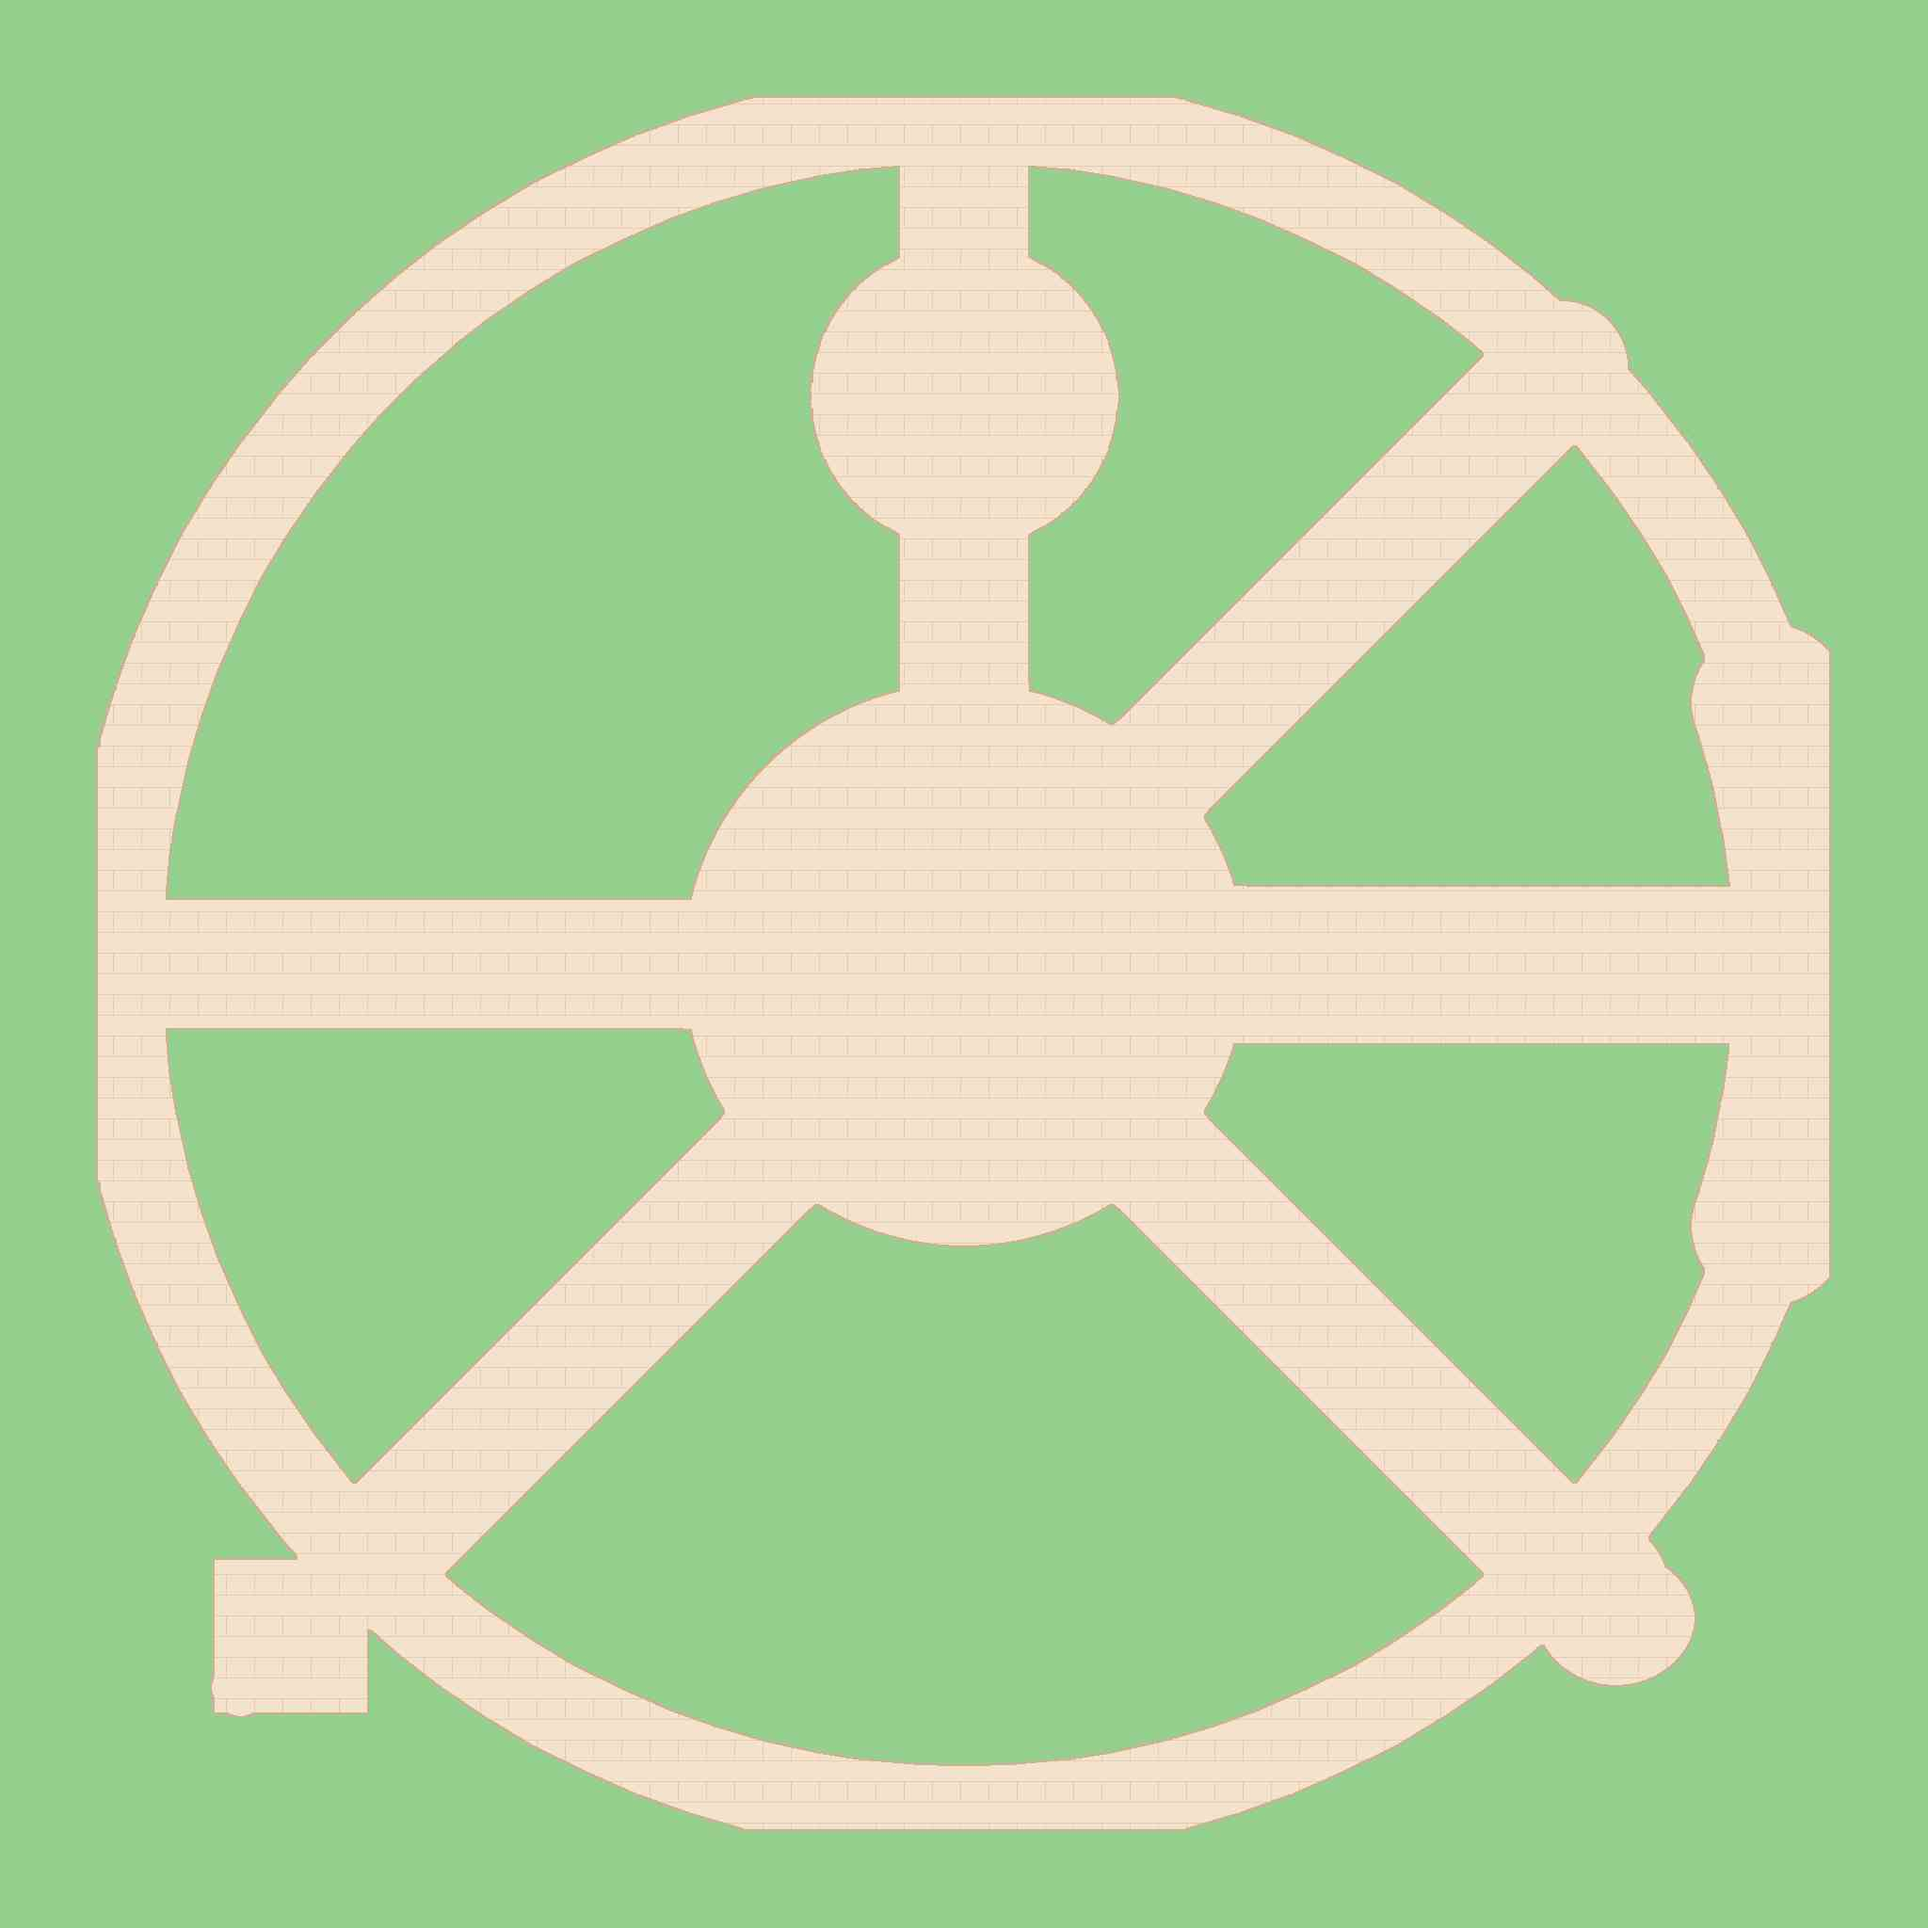
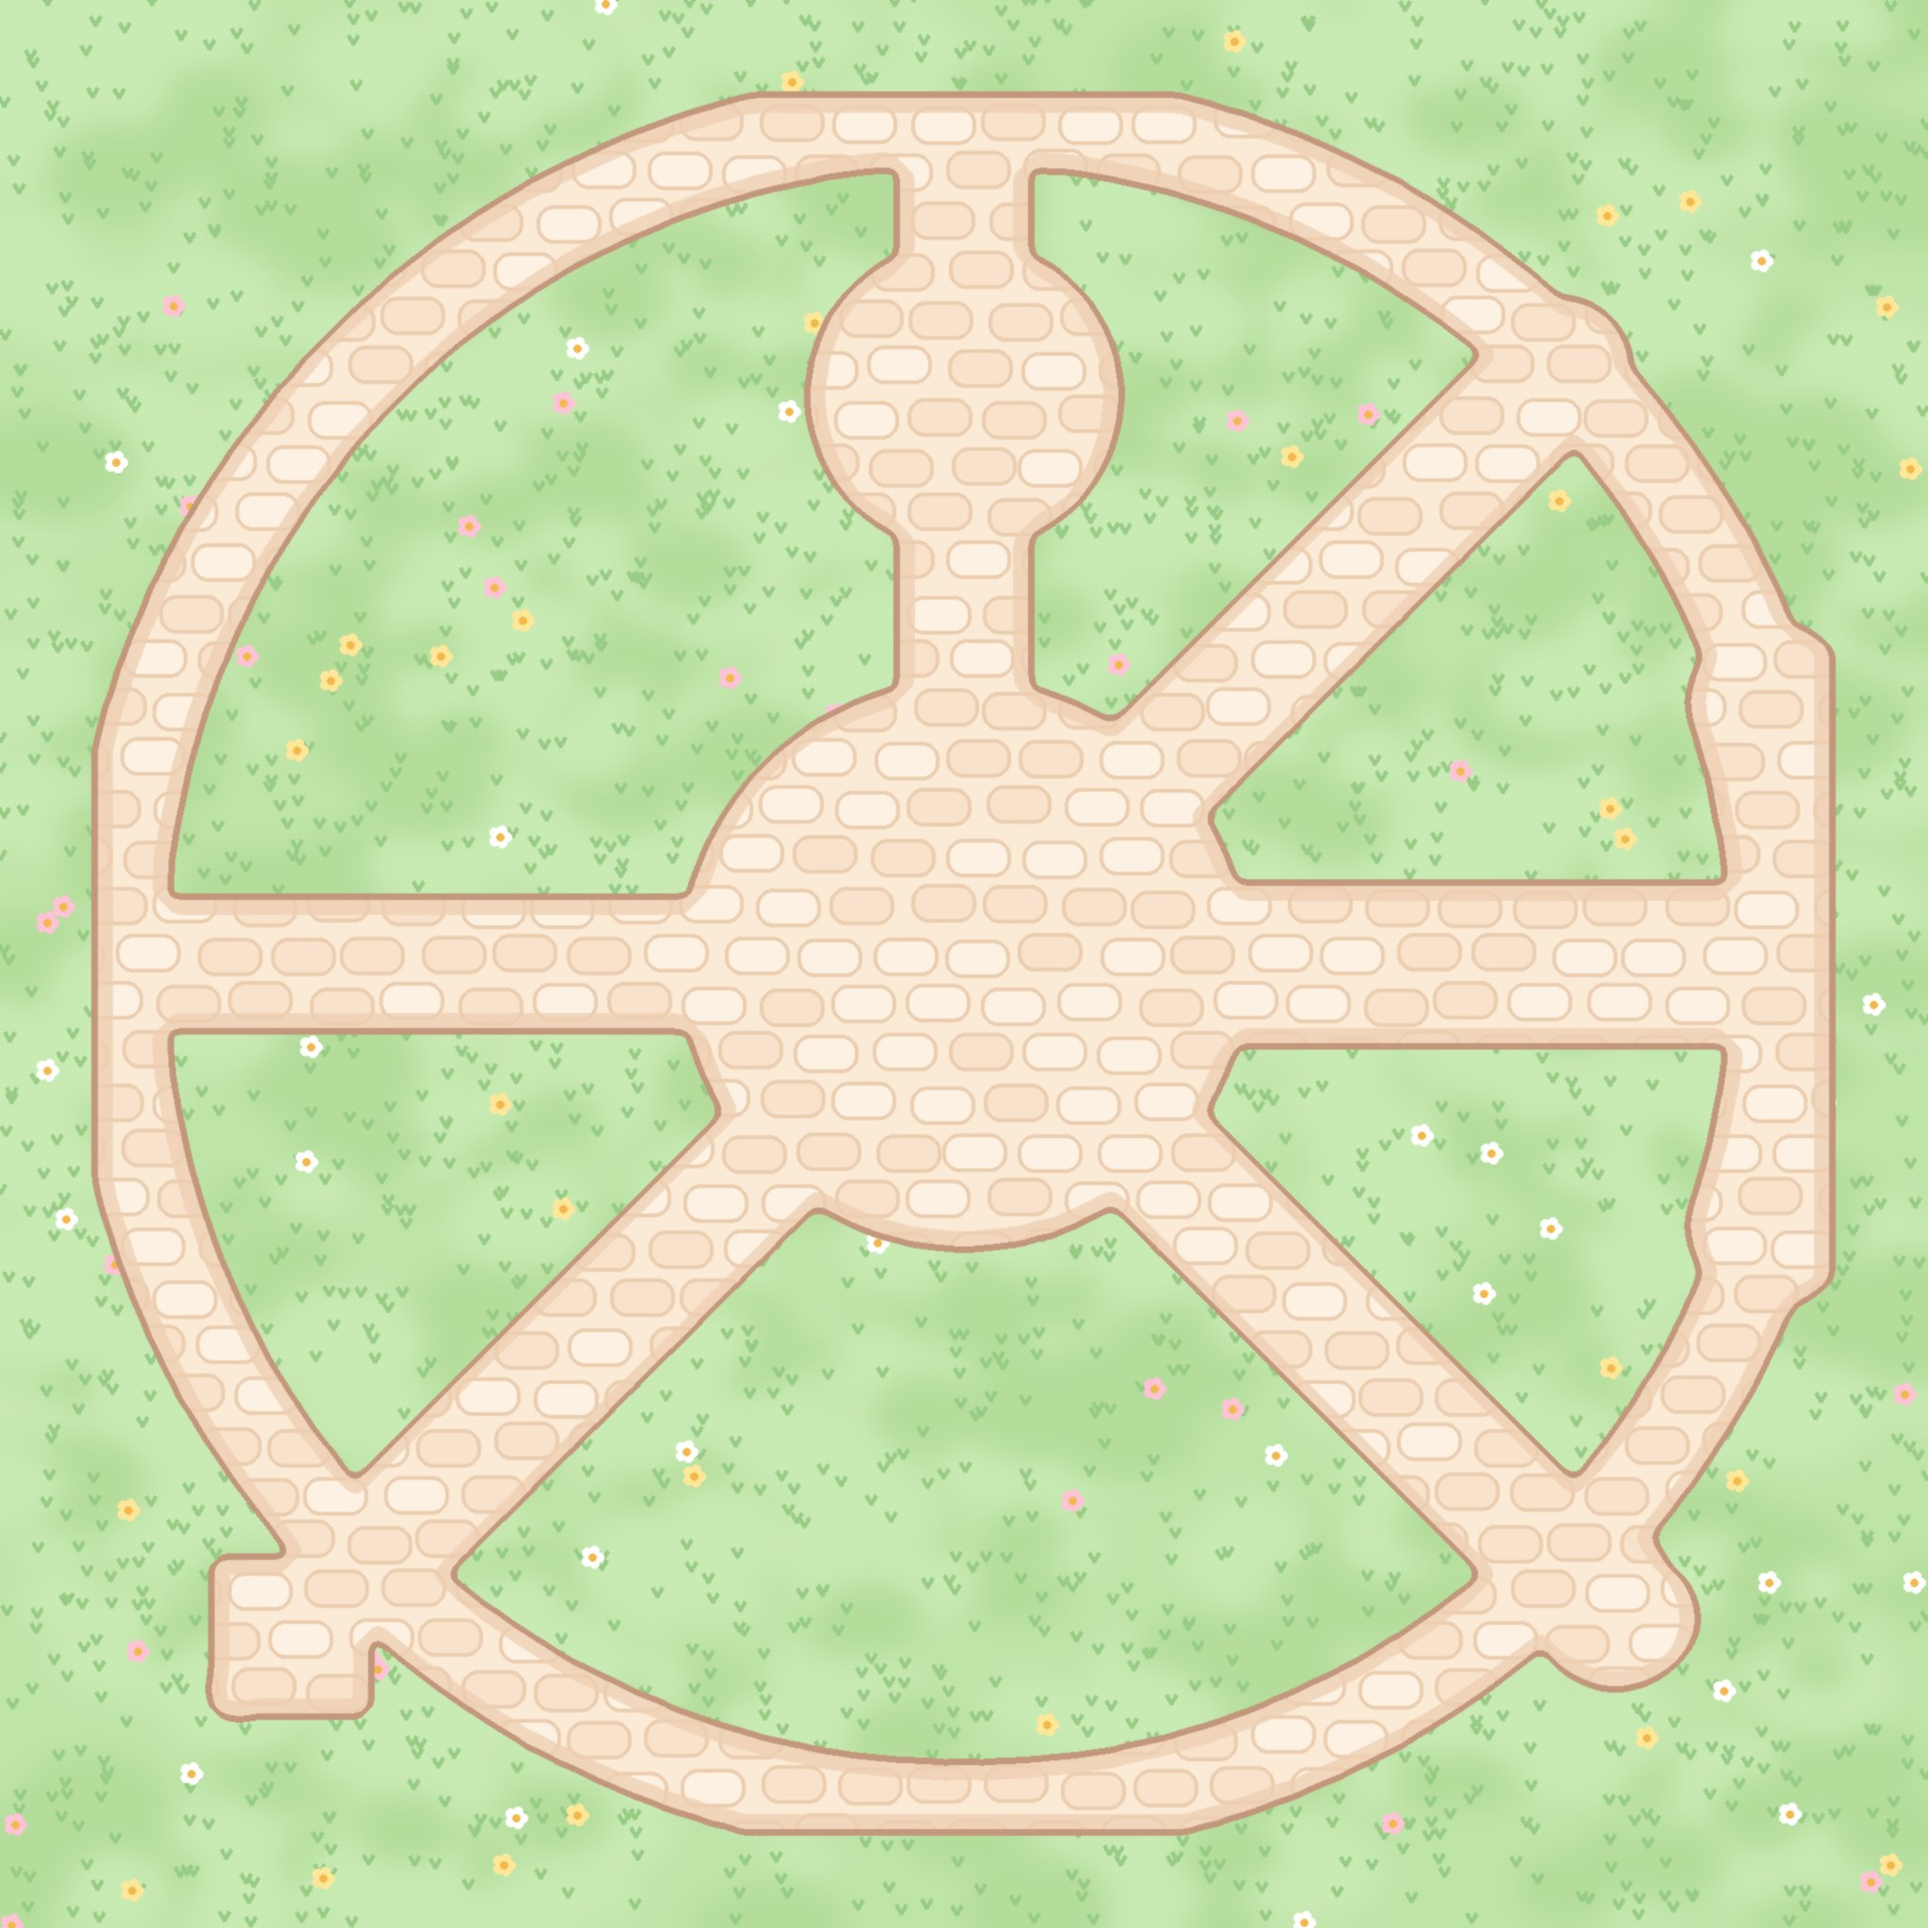
feat(mascot): ship v2 art round 5 (#157)
Replace skin marks, icons, hearts, flies, the spa room, and the lobby
ground and decor with the artist's round-5 files. Bump the shared asset
version to 3 and hash the new lobby pictures and spa plate.

diff --git a/lib/mascot/asset-url.test.ts b/lib/mascot/asset-url.test.ts
@@ -1,4 +1,5 @@
 import assert from "node:assert/strict";
+import { createHash } from "node:crypto";
 import fs from "node:fs";
 import path from "node:path";
 import { describe, it } from "node:test";
@@ -33,25 +34,25 @@ function assertVersioned(url: string): void {
 }
 
 describe("mascot asset urls", () => {
-  it("appends ?v=2, keeps a file hash as h, and skips API paths", () => {
-    assert.equal(MASCOT_ASSET_VERSION, "2");
-    assert.equal(mascotAssetUrl("/mascot/body/body_chibi.svg"), "/mascot/body/body_chibi.svg?v=2");
+  it("appends ?v=3, keeps a file hash as h, and skips API paths", () => {
+    assert.equal(MASCOT_ASSET_VERSION, "3");
+    assert.equal(mascotAssetUrl("/mascot/body/body_chibi.svg"), "/mascot/body/body_chibi.svg?v=3");
     const once = mascotAssetUrl("/mascot/body/body_chibi.svg");
     assert.equal(mascotAssetUrl(once), once);
     assert.equal(
       mascotAssetUrl("/mascot/room/walk-mask.png?v=866dc5866a"),
-      "/mascot/room/walk-mask.png?v=2&h=866dc5866a",
+      "/mascot/room/walk-mask.png?v=3&h=866dc5866a",
     );
     assert.equal(
       mascotAssetUrl('url("/mascot/rooms/spa-room.webp")'),
-      'url("/mascot/rooms/spa-room.webp?v=2")',
+      'url("/mascot/rooms/spa-room.webp?v=3")',
     );
     assert.equal(
       mascotAssetUrl('<image href="/mascot/fx/eyelids.svg"/>'),
-      '<image href="/mascot/fx/eyelids.svg?v=2"/>',
+      '<image href="/mascot/fx/eyelids.svg?v=3"/>',
     );
     assert.equal(mascotAssetUrl("/api/v1/mascot/rooms/DA7K2M/quest"), "/api/v1/mascot/rooms/DA7K2M/quest");
-    assert.equal(mascotAssetPath("/mascot/hair/hair_sleep_buns.svg?v=2"), "/mascot/hair/hair_sleep_buns.svg");
+    assert.equal(mascotAssetPath("/mascot/hair/hair_sleep_buns.svg?v=3"), "/mascot/hair/hair_sleep_buns.svg");
     assert.equal(MASCOT_CACHE_CONTROL.includes("immutable"), false);
     assert.match(MASCOT_CACHE_CONTROL, /max-age=0/);
     assert.match(MASCOT_CACHE_CONTROL, /must-revalidate/);
@@ -78,7 +79,7 @@ describe("mascot asset urls", () => {
       ...Object.values(GAME_ICONS),
       ...WARDROBE_CATALOG.map((item) => wardrobeThumbSrc(item)),
       sleeveArmSrc("/mascot/outfits/outfit_pajamas.svg"),
-      chinArmSrc("/mascot/outfits/outfit_hoodie.svg?v=2"),
+      chinArmSrc("/mascot/outfits/outfit_hoodie.svg?v=3"),
       sheetJsonUrlFromArt(art),
       mascotSheetImageUrl("outfit_pajamas__hair_sleep_buns__211451dc.png"),
       ROOM_WALK_MASK,
@@ -111,10 +112,16 @@ describe("mascot asset urls", () => {
       "utf8",
     );
     const found = [...css.matchAll(/url\("(\/mascot\/[^"]+)"\)/g)].map((match) => match[1] ?? "");
-    assert.deepEqual(found, [
-      mascotAssetUrl("/mascot/rooms/spa-room.webp"),
-      mascotAssetUrl("/mascot/rooms/spa-room.webp"),
-    ]);
+    const spa = path.join(process.cwd(), "public/mascot/rooms/spa-room.webp");
+    const digest = createHash("sha256").update(fs.readFileSync(spa)).digest("hex").slice(0, 10);
+    const expected = mascotAssetUrl(`/mascot/rooms/spa-room.webp?v=${digest}`);
+    assert.equal(digest, "d8cd3aeab9");
+    assert.deepEqual(found, [expected, expected]);
+    for (const url of found) {
+      const params = new URL(url, "https://dadiary.vn").searchParams;
+      assert.equal(params.get("v"), MASCOT_ASSET_VERSION);
+      assert.equal(params.get("h"), digest);
+    }
   });
 
   it("serves /mascot with a revalidating cache and no immutable", async () => {

diff --git a/components/mascot/be-da-figure.test.tsx b/components/mascot/be-da-figure.test.tsx
@@ -42,10 +42,10 @@ function renderPayload(payload: unknown) {
 describe("Bé Da backend payload", () => {
   it("renders body, hair, and outfit from the catalog ids", () => {
     const html = renderPayload(backendMascot);
-    assert.match(html, /src="\/mascot\/body\/body_chibi\.svg\?v=2"/);
-    assert.match(html, /src="\/mascot\/hair\/hair_sleep_buns\.svg\?v=2"/);
-    assert.match(html, /src="\/mascot\/outfit\/outfit_cozy_pajamas\.svg\?v=2"/);
-    assert.match(html, /src="\/mascot\/glow\/level_1\.svg\?v=2"/);
+    assert.match(html, /src="\/mascot\/body\/body_chibi\.svg\?v=3"/);
+    assert.match(html, /src="\/mascot\/hair\/hair_sleep_buns\.svg\?v=3"/);
+    assert.match(html, /src="\/mascot\/outfit\/outfit_cozy_pajamas\.svg\?v=3"/);
+    assert.match(html, /src="\/mascot\/glow\/level_1\.svg\?v=3"/);
     assert.equal(html.includes("_floor.svg"), false);
     assert.match(html, /data-glow-level="1"/);
     assert.match(html, /data-level="1"/);
@@ -76,11 +76,11 @@ describe("Bé Da backend payload", () => {
       glow_level: 3,
       glow_progress: 0.4,
     });
-    assert.match(html, /src="\/mascot\/body\/body_chibi\.svg\?v=2"/);
-    assert.match(html, /src="\/mascot\/hair\/hair_sleep_buns\.svg\?v=2"/);
-    assert.match(html, /src="\/mascot\/outfit\/outfit_cozy_pajamas\.svg\?v=2"/);
-    assert.match(html, /src="\/mascot\/accessory\/accessory_pink_headband\.svg\?v=2"/);
-    assert.match(html, /src="\/mascot\/props\/room_moon\.svg\?v=2"/);
+    assert.match(html, /src="\/mascot\/body\/body_chibi\.svg\?v=3"/);
+    assert.match(html, /src="\/mascot\/hair\/hair_sleep_buns\.svg\?v=3"/);
+    assert.match(html, /src="\/mascot\/outfit\/outfit_cozy_pajamas\.svg\?v=3"/);
+    assert.match(html, /src="\/mascot\/accessory\/accessory_pink_headband\.svg\?v=3"/);
+    assert.match(html, /src="\/mascot\/props\/room_moon\.svg\?v=3"/);
     assert.match(html, /data-level="3"/);
     assert.match(html, /bd-breathe/);
     assert.equal(html.includes("body_default"), false);

diff --git a/lib/mascot/game/actor-sheet.test.ts b/lib/mascot/game/actor-sheet.test.ts
@@ -20,7 +20,7 @@ describe("actor sheet", () => {
     const bowed = [...plain, "/mascot/accessory/accessory_ribbon_bow.svg", "/mascot/accessory/accessory_pink_headband.svg"];
     assert.notEqual(sheetKeyFromArt(plain), sheetKeyFromArt(bowed));
     assert.equal(sheetKeyFromArt(bowed), sheetKeyFromArt(bowed));
-    assert.match(sheetJsonUrlFromArt(bowed), /^\/mascot\/game\/sheets\/outfit_pajamas__hair_twin_tails__[0-9a-f]{8}\.json\?v=2$/);
+    assert.match(sheetJsonUrlFromArt(bowed), /^\/mascot\/game\/sheets\/outfit_pajamas__hair_twin_tails__[0-9a-f]{8}\.json\?v=3$/);
     assert.equal(sheetKeyFromArt(bowed), sheetKeyFromArt(bowed.map(mascotAssetUrl)));
     assert.equal(sheetJsonUrlFromArt(bowed), sheetJsonUrlFromArt(bowed.map(mascotAssetUrl)));
     assert.deepEqual(lookFromArt(bowed.map(mascotAssetUrl)), lookFromArt(bowed));

diff --git a/lib/mascot/game/lobby-park.ts b/lib/mascot/game/lobby-park.ts
@@ -15,11 +15,11 @@
 import { mascotAssetUrl } from "@/lib/mascot/asset-url";
 
 export const LOBBY_GROUND = {
-  src: mascotAssetUrl("/mascot/lobby/ground.jpg?v=1f14be26c2"),
+  src: mascotAssetUrl("/mascot/lobby/ground.jpg?v=3d5e408ae2"),
   size: 2048,
 } as const;
 
-export const LOBBY_DECOR = mascotAssetUrl("/mascot/lobby/decor.png?v=d75074d448");
+export const LOBBY_DECOR = mascotAssetUrl("/mascot/lobby/decor.png?v=c1c9a27279");
 export const LOBBY_DECOR_MAP = mascotAssetUrl("/mascot/lobby/decor.json?v=bbda391eac");
 export const LOBBY_LAYOUT = mascotAssetUrl("/mascot/lobby/layout.json?v=2ff8683f11");
 

diff --git a/components/mascot/game/be-da-game.css b/components/mascot/game/be-da-game.css
@@ -2572,7 +2572,7 @@
   justify-content: center;
   gap: 16px;
   padding: 24px;
-  background: #c48962 url("/mascot/rooms/spa-room.webp?v=2") center / cover no-repeat;
+  background: #c48962 url("/mascot/rooms/spa-room.webp?v=3&h=d8cd3aeab9") center / cover no-repeat;
   text-align: center;
 }
 
@@ -2677,7 +2677,7 @@
   inset: 0;
   transform-origin: 0 0;
   will-change: transform;
-  background: #c48962 url("/mascot/rooms/spa-room.webp?v=2") center / cover no-repeat;
+  background: #c48962 url("/mascot/rooms/spa-room.webp?v=3&h=d8cd3aeab9") center / cover no-repeat;
 }
 
 .beda-spa-wall {

diff --git a/components/mascot/game/be-da-game-view.test.tsx b/components/mascot/game/be-da-game-view.test.tsx
@@ -115,7 +115,7 @@ describe("Bé Da game screen", () => {
     assert.match(html, /beda-hero-wrap is-floor/);
     assert.match(html, /data-floor="on"/);
     assert.match(html, /data-testid="beda-room-shadow"/);
-    assert.match(html, /data-walk-mask="\/mascot\/room\/walk-mask\.png\?v=2&amp;h=[0-9a-f]{10}"/);
+    assert.match(html, /data-walk-mask="\/mascot\/room\/walk-mask\.png\?v=3&amp;h=[0-9a-f]{10}"/);
     assert.match(html, /beda-hero-wrap/);
     assert.match(html, /data-testid="beda-pixi"/);
     assert.match(html, /data-scene="room"/);

diff --git a/lib/mascot/asset-url.ts b/lib/mascot/asset-url.ts
@@ -9,7 +9,7 @@
  * The query is only for the request.
  */
 
-export const MASCOT_ASSET_VERSION = "2";
+export const MASCOT_ASSET_VERSION = "3";
 
 /** Revalidate. Do not mark /mascot immutable: the file names are stable. */
 export const MASCOT_CACHE_CONTROL = "public, max-age=0, must-revalidate";
